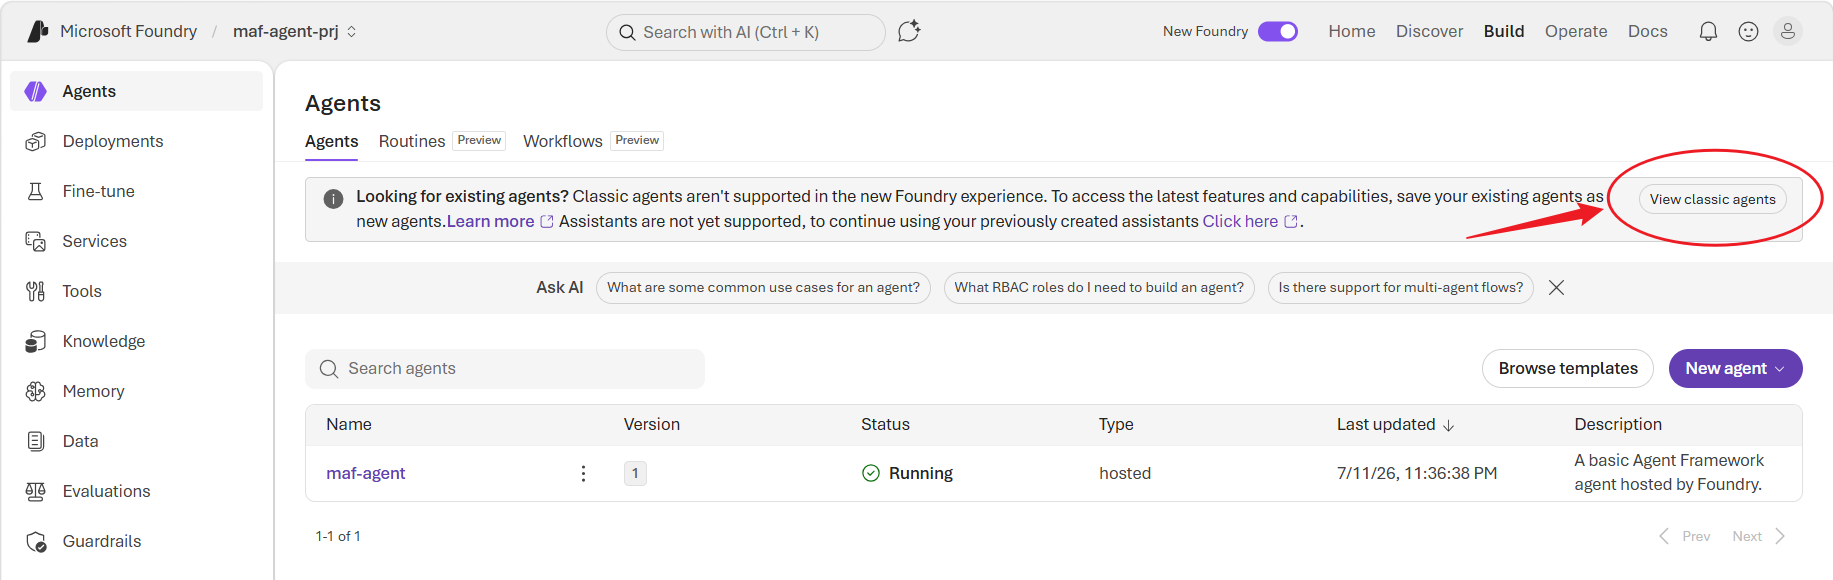
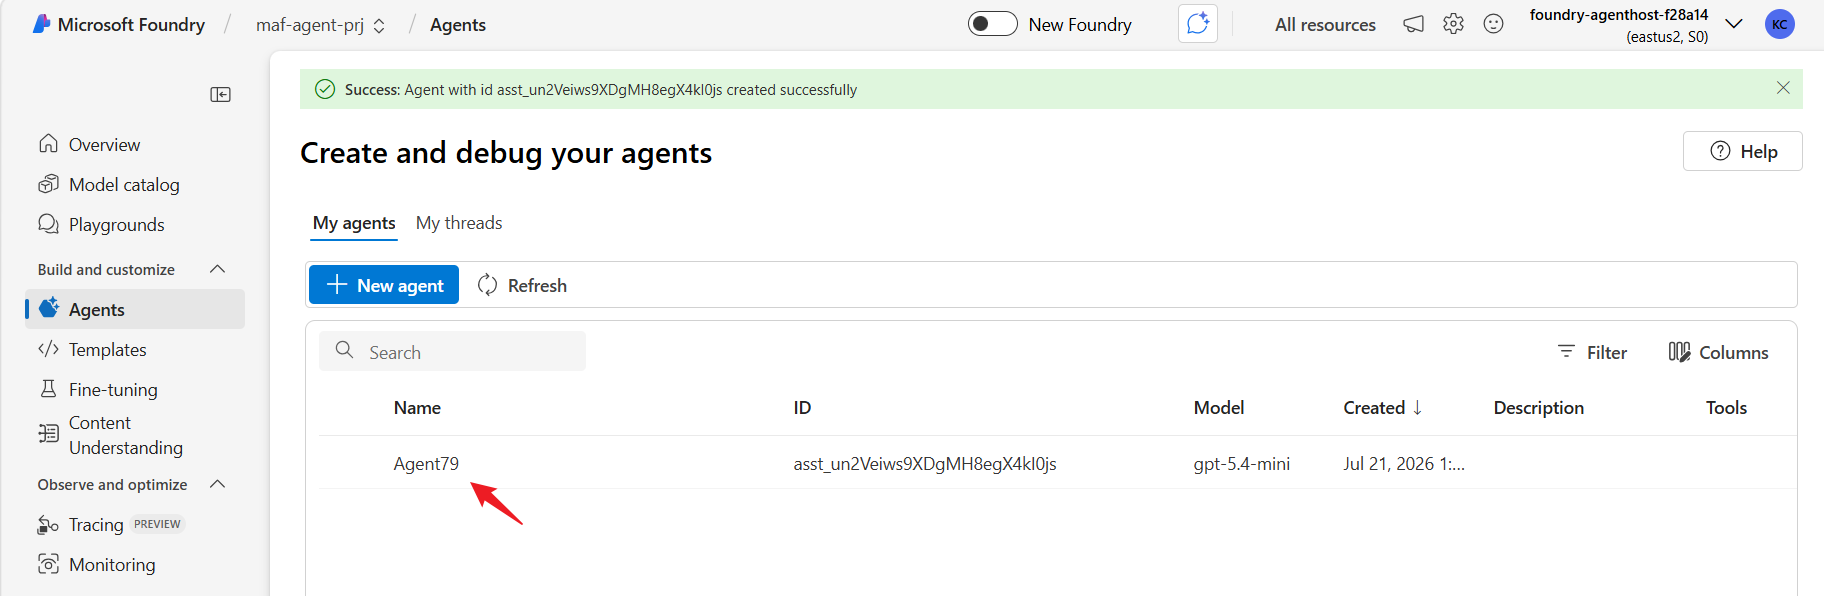
docs: Update README with tips for HTTP protocol and add images for Foundry portal integration

diff --git a/agenthost/module-03/README.md b/agenthost/module-03/README.md
@@ -224,7 +224,8 @@ NAME                 TYPE           CLUSTER-IP   EXTERNAL-IP      PORT(S)       
 service/agent-host   LoadBalancer   10.0.63.89   48.204.162.105   80:31606/TCP   33s
 ```
 Open your browser and input URL `http://<EXTERNAL-IP>`, you will see the chat window. Try several questions to see if the agent works:
-**Tip: Make sure you have the `http://` as the protocol prefix, otherwise your browser may try https by default which is not implemented in the agent/workshop.**
+
+> ***Tip: Make sure you have the `'http://'` in the URL, otherwise the browser may use https by default which however is not implemented in the agent/workshop yet.***
 
 ![module-03-agent-chat-portal](../pic/module-03-agent-chat-portal.png)
 
@@ -255,6 +256,13 @@ Containers:
     Container ID:   containerd://a8619d5c5b9eef8906c84d864e9eb6a037882b14b6e7b7a4f2b23010826d5ec3
     Image:          ......
 ```
+In Microsoft Foundry portal, switch to the Classic mode:
+![module-03-agent-in-foundry-portal-switch-to-classic](../pic/module-03-agent-in-foundry-portal-switch-to-classic.png)
+
+and then in the "Agent" list you will see your agent (We registered our agent into the Foundry portal for visibility and management, for example your can try it in the Playground.):
+![module-03-agent-in-foundry-portal-01](../pic/module-03-agent-in-foundry-portal-01.png)
+
+> **Note that we actually run our agent in AKS with Sandboxing. Unlike the Hosted Agent in solution A, in solution B we host our agent in AKS).**
 
 ### Verify Pod Sandboxing Kernel Isolation
 